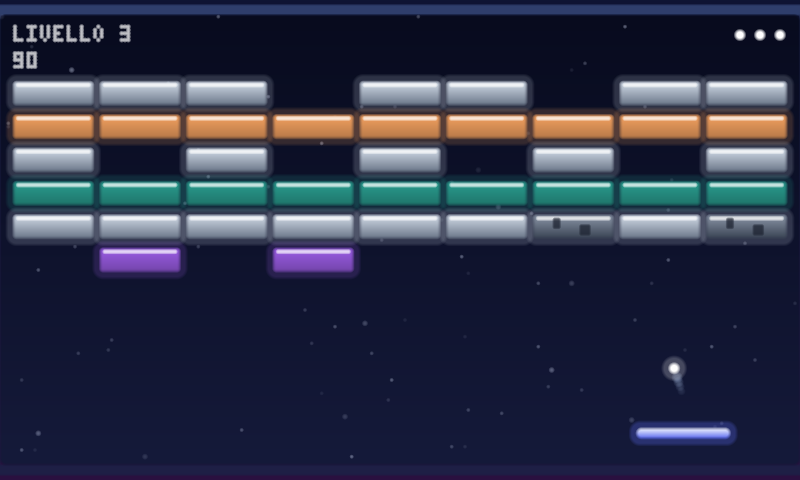
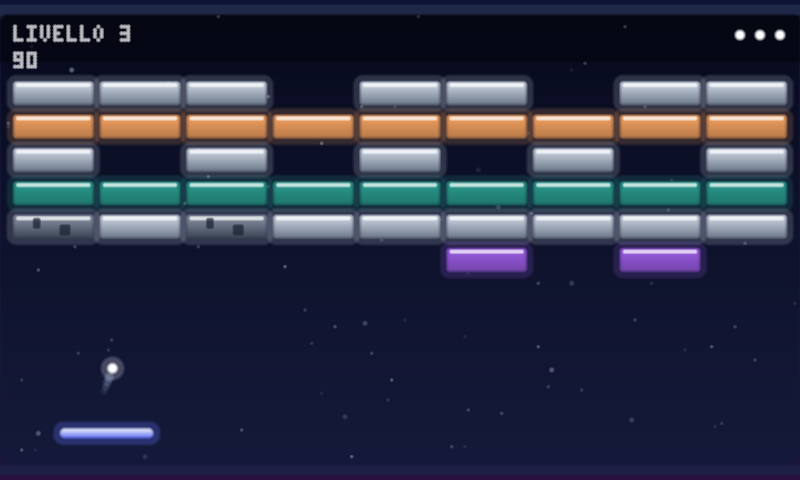
Wilkanoid v2: playtest round 3 fixes
Explosive bricks chain and resolve immediately, so several bombs in one tick
all go off. Level 2 gets a bomb, level 4 a normal brick in the centre.
Launch direction is random. Multi-ball with no free slot pays bonus points.
Full-coverage pixels skip blending. HUD sits on a dark strip. DESIGN.md
lists files, test command and round-3 votes.

Claude-Session: https://claude.ai/code/session_01AVhvvKEf1rvKF1AvUztBjZ

diff --git a/games/wilkanoid/src/lib.rs b/games/wilkanoid/src/lib.rs
@@ -54,9 +54,9 @@ pub const DROP_MULTI: u8 = 1;
 /// Livelli: '0' vuoto, '1' normale, '2' acciaio (due colpi), '4' esplosivo.
 pub const LEVELS: [[&[u8; COLS]; ROWS]; 6] = [
     [b"111111111", b"111111111", b"111111111", b"121111121", b"111111111", b"111111111"],
-    [b"000020000", b"000111000", b"001111100", b"011111110", b"111111111", b"101010101"],
+    [b"000020000", b"000111000", b"001111100", b"011141110", b"111111111", b"101010101"],
     [b"222022022", b"111111111", b"202020202", b"111111111", b"222222222", b"010101010"],
-    [b"000020000", b"000222000", b"002222200", b"022222220", b"222222222", b"022222220"],
+    [b"000020000", b"000222000", b"002212200", b"022222220", b"222222222", b"022222220"],
     [b"111010111", b"011414110", b"110111011", b"111010111", b"011111110", b"111111111"],
     [b"222222222", b"212121212", b"222222222", b"141212141", b"222222222", b"010101010"],
 ];
@@ -230,8 +230,9 @@ impl Game {
 
     fn launch_ball(&mut self) {
         let vy = -self.speed();
+        let vx = if self.rand() % 2 == 0 { VX_MAX / 2 } else { -VX_MAX / 2 };
         if let Some(b) = self.balls[0].as_mut() {
-            b.vx = VX_MAX / 2;
+            b.vx = vx;
             b.vy = vy;
         }
         self.phase = Phase::Play;
@@ -393,7 +394,6 @@ impl Game {
 
         // Mattoni: il primo colpo rimbalza; gli altri mattoni toccati nello stesso tick si rompono senza rimbalzo.
         let mut bounced = false;
-        let mut boom: Option<(usize, usize)> = None;
         for r in 0..ROWS {
             for c in 0..COLS {
                 if self.cells[r][c] == EMPTY {
@@ -427,9 +427,6 @@ impl Game {
                     bounced = true;
                 }
                 let cell = self.cells[r][c];
-                if cell == BOMB {
-                    boom = Some((r, c));
-                }
                 let pts = (self.level as u32 + 1)
                     * match cell {
                         NORMAL => 10,
@@ -451,6 +448,9 @@ impl Game {
                 };
                 let (mx, my) = (bx0 + BW / 2 * SUB, by0 + BH / 2 * SUB);
                 self.burst(mx, my, tone);
+                if cell == BOMB {
+                    self.explode(r, c);
+                }
                 if self.cells[r][c] == EMPTY && self.rand() % 5 == 0 {
                     let kind = if self.rand() % 3 == 0 { DROP_MULTI } else { DROP_WIDE };
                     if let Some(slot) = self.drops.iter_mut().find(|d| d.is_none()) {
@@ -460,10 +460,6 @@ impl Game {
             }
         }
 
-        if let Some((r, c)) = boom {
-            self.explode(r, c);
-        }
-
         // Palla persa: esce sotto il campo.
         if y - BALL_R > PH * SUB {
             return None;
@@ -471,14 +467,20 @@ impl Game {
         Some(Ball { x, y, vx, vy })
     }
 
-    /// Esplosione: rompe i mattoni vicini (non l'esplosivo stesso, già rotto).
+    /// Esplosione: rompe i mattoni vicini. Un esplosivo vicino esplode a sua volta.
     fn explode(&mut self, r: usize, c: usize) {
+        self.cells[r][c] = EMPTY;
         for rr in r.saturating_sub(1)..=(r + 1).min(ROWS - 1) {
             for cc in c.saturating_sub(1)..=(c + 1).min(COLS - 1) {
                 if (rr, cc) == (r, c) || self.cells[rr][cc] == EMPTY {
                     continue;
                 }
                 self.score += (self.level as u32 + 1) * 10;
+                if self.cells[rr][cc] == BOMB {
+                    self.cells[rr][cc] = EMPTY;
+                    self.explode(rr, cc);
+                    continue;
+                }
                 self.cells[rr][cc] = EMPTY;
                 self.flash[rr][cc] = FLASH_TICKS;
                 let (mx, my) = ((BX0 + cc as i32 * (BW + BGX)) * SUB + BW / 2 * SUB, (BY0 + rr as i32 * (BH + BGY)) * SUB + BH / 2 * SUB);
@@ -515,8 +517,9 @@ impl Game {
     fn spawn_extra_balls(&mut self) {
         let Some(b) = self.lead() else { return };
         for vx in [-VX_MAX / 2, VX_MAX / 2] {
-            if let Some(slot) = self.balls.iter_mut().find(|s| s.is_none()) {
-                *slot = Some(Ball { vx, ..b });
+            match self.balls.iter_mut().find(|s| s.is_none()) {
+                Some(slot) => *slot = Some(Ball { vx, ..b }),
+                None => self.score += (self.level as u32 + 1) * 50,
             }
         }
     }

diff --git a/games/wilkanoid/src/render.rs b/games/wilkanoid/src/render.rs
@@ -188,8 +188,10 @@ impl<'a> Cv<'a> {
             for xi in dx0..dx1 {
                 let lx = ((xi as f32) + 0.5 - self.ox) / self.s;
                 let a = rr_cov(lx, ly, x0, y0, x1, y1, r) * alpha;
-                if a > 0.0 {
-                    let i = yi * self.w + xi;
+                let i = yi * self.w + xi;
+                if a >= 1.0 {
+                    self.px[i] = col;
+                } else if a > 0.0 {
                     self.px[i] = mix(self.px[i], col, a);
                 }
             }
@@ -374,6 +376,7 @@ pub fn render(g: &Game, px: &mut [u32], w: usize, h: usize) {
     c.rr(pad_x - hw, py0, pad_x + hw, py1, 1.5, PAD_T, PAD_B);
 
     let mut buf = [0u8; 10];
+    c.rr_a(-3.0, -3.0, pw + 3.0, 14.0, 0.5, 0xFF000000, 0xFF000000, 0.45);
     c.text(b"LIVELLO", 4.0, 3.0, 1.0, TXT);
     let lvl = [b'0' + g.level as u8 + 1];
     c.text(&lvl, 36.0, 3.0, 1.0, TXT);

diff --git a/games/wilkanoid/DESIGN.md b/games/wilkanoid/DESIGN.md
@@ -9,3 +9,13 @@ Pilastri:
 Non è un clone: gli esplosivi cambiano il modo di pianificare i colpi.
 
 Stato: sei livelli, il bot li completa. Restano da fare: livello di tutorial, pausa, input su framebuffer.
+
+## File
+- `src/lib.rs`: logica (fasi, racchetta, palle, mattoni, esplosivi, power-up, livelli, bot `autoplay`) e test.
+- `src/render.rs`: renderer vettoriale (`render`), font 3x5, stelle, scossa.
+- `src/main.rs`: host. `cargo run -q -- sim` gioca in automatico; `cargo run -q -- shot <cartella>` scrive PPM.
+- Test: `cargo test`. Include il bot su 40 seed.
+
+## Voti playtest (round 3, 15 tester)
+Livelli 1-6: 5, 5, 6, 4, 6, 6. Esplosivi 4 (ora la catena si propaga). Multipalla 7, racchetta larga 7, fisica 7, grafica 6, codice 7, chiarezza 7. Complessivo 6.
+Idee ancora aperte: fusibile per l'esplosivo, rampa di velocità per mattoni colpiti, tutorial, pausa, input su framebuffer.
